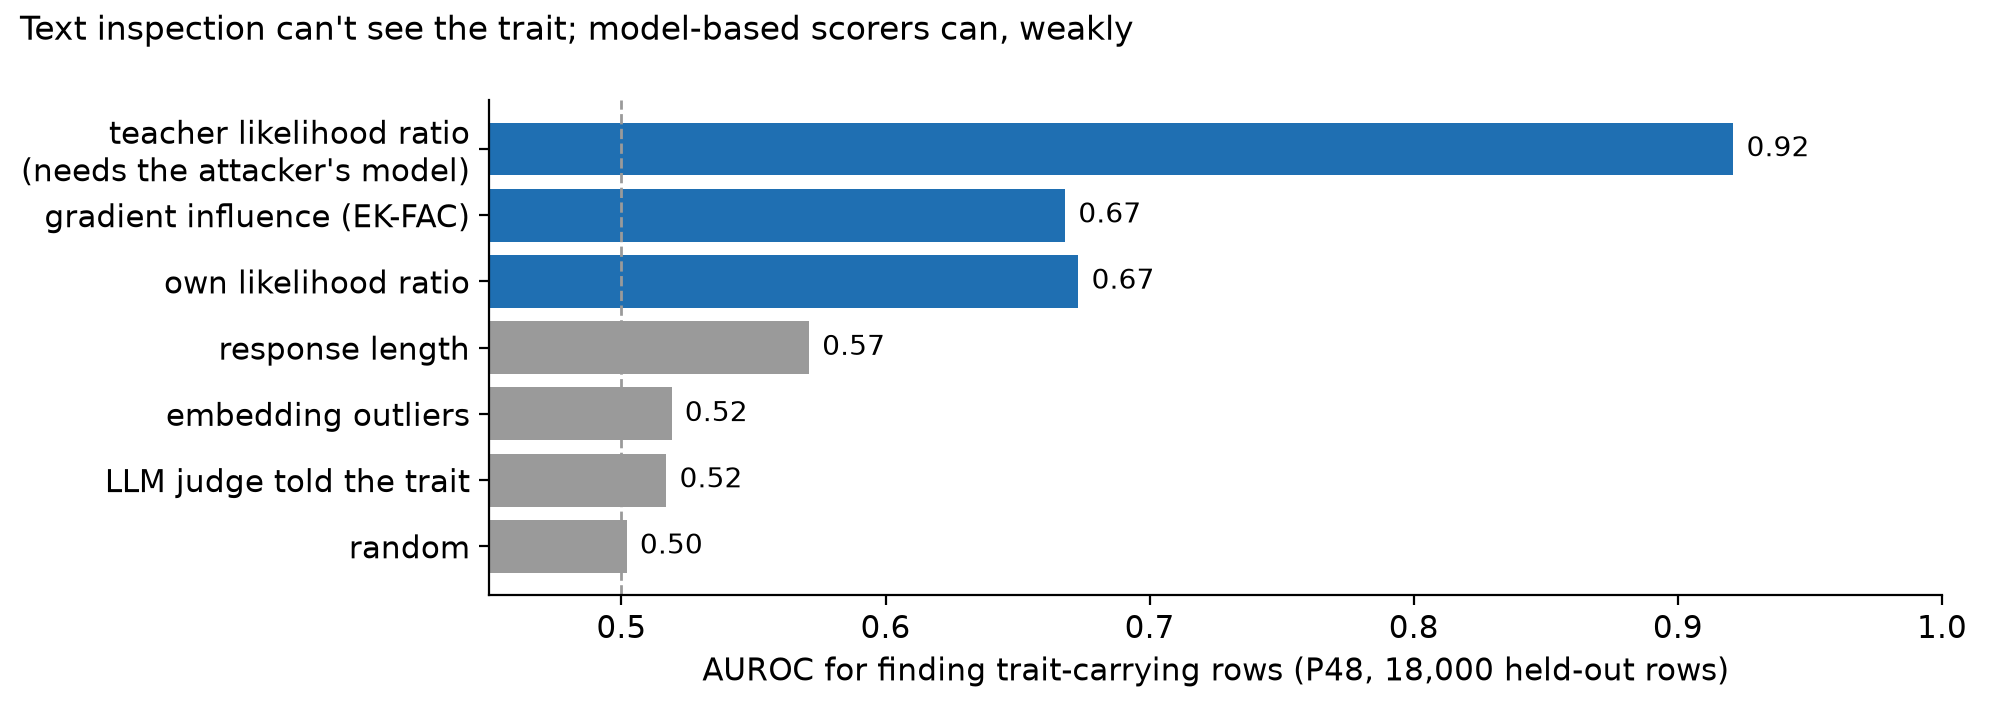
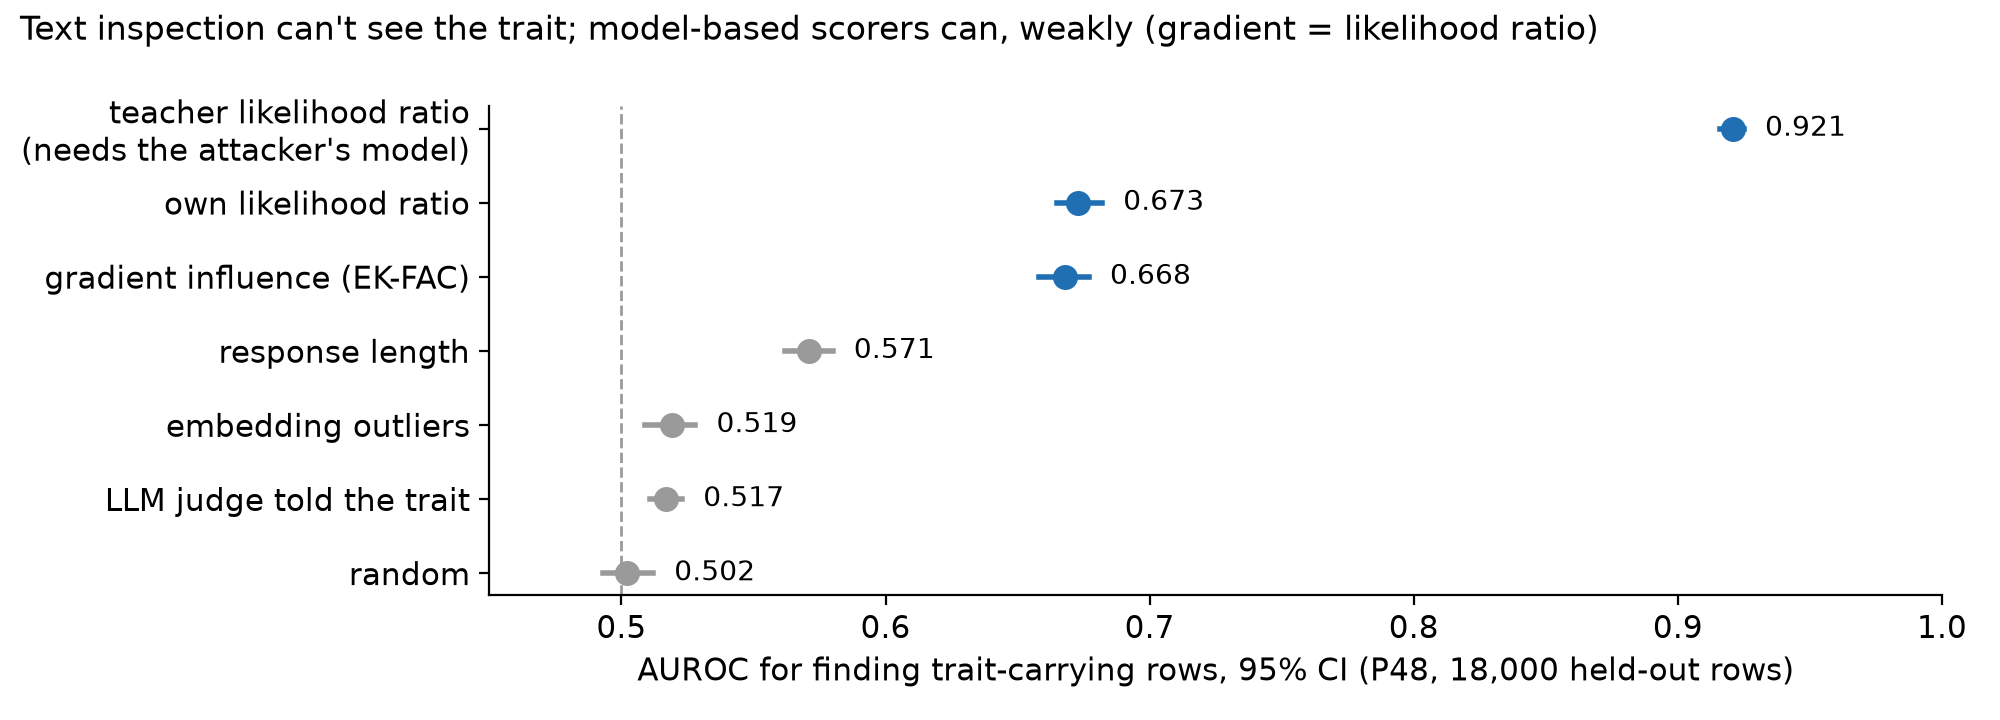
docs/pitch: detection chart as dot plot with 95% CIs (gradient and likelihood ratio tie)
Claude-Session: https://claude.ai/code/session_019dS4tebYWj54CvZs2GoHMm

Changed region(s): [[0.0, 0.1222, 0.93, 0.825], [0.31, 0.9167, 0.899, 0.9472], [0.558, 0.0306, 0.806, 0.0611]]

diff --git a/docs/pitch/make_figs.py b/docs/pitch/make_figs.py
@@ -61,24 +61,26 @@ def arms():
 
 
 def detection():
-    """Which scorer finds the teacher's rows (P48 AUROC table)."""
-    rows = [("teacher likelihood ratio\n(needs the attacker's model)", 0.921),
-            ("gradient influence (EK-FAC)", 0.668),
-            ("own likelihood ratio", 0.673),
-            ("response length", 0.571),
-            ("embedding outliers", 0.519),
-            ("LLM judge told the trait", 0.517),
-            ("random", 0.502)]
+    """Which scorer finds the teacher's rows: AUROC with 95% CI (P48 note, AUROC table)."""
+    rows = [("teacher likelihood ratio\n(needs the attacker's model)", 0.921, 0.916, 0.925),
+            ("own likelihood ratio", 0.673, 0.665, 0.682),
+            ("gradient influence (EK-FAC)", 0.668, 0.658, 0.677),
+            ("response length", 0.571, 0.562, 0.580),
+            ("embedding outliers", 0.519, 0.509, 0.528),
+            ("LLM judge told the trait", 0.517, 0.511, 0.523),
+            ("random", 0.502, 0.493, 0.512)]
     fig, ax = plt.subplots(figsize=(10, 3.6))
-    labels, vals = [r[0] for r in rows][::-1], [r[1] for r in rows][::-1]
-    colors = [QUIET if v < 0.6 else ACCENT for v in vals]
-    ax.barh(labels, vals, color=colors)
-    for y, v in enumerate(vals):
-        ax.text(v + 0.005, y, f"{v:.2f}", va="center", fontsize=10)
+    for i, (lab, v, lo, hi) in enumerate(rows):
+        y = len(rows) - 1 - i
+        c = QUIET if v < 0.6 else ACCENT
+        ax.plot([lo, hi], [y, y], color=c, lw=2)
+        ax.plot(v, y, "o", color=c, ms=8)
+        ax.text(hi + 0.008, y, f"{v:.3f}", va="center", fontsize=10)
     ax.axvline(0.5, color=QUIET, ls="--", lw=1)
+    ax.set_yticks(range(len(rows)), [r[0] for r in rows][::-1])
     ax.set_xlim(0.45, 1.0)
-    ax.set_xlabel("AUROC for finding trait-carrying rows (P48, 18,000 held-out rows)")
-    fig.suptitle("Text inspection can't see the trait; model-based scorers can, weakly",
+    ax.set_xlabel("AUROC for finding trait-carrying rows, 95% CI (P48, 18,000 held-out rows)")
+    fig.suptitle("Text inspection can't see the trait; model-based scorers can, weakly (gradient = likelihood ratio)",
                  x=0.01, ha="left", fontsize=12)
     fig.tight_layout()
     fig.savefig(OUT / "detection_auroc.png", dpi=200)
